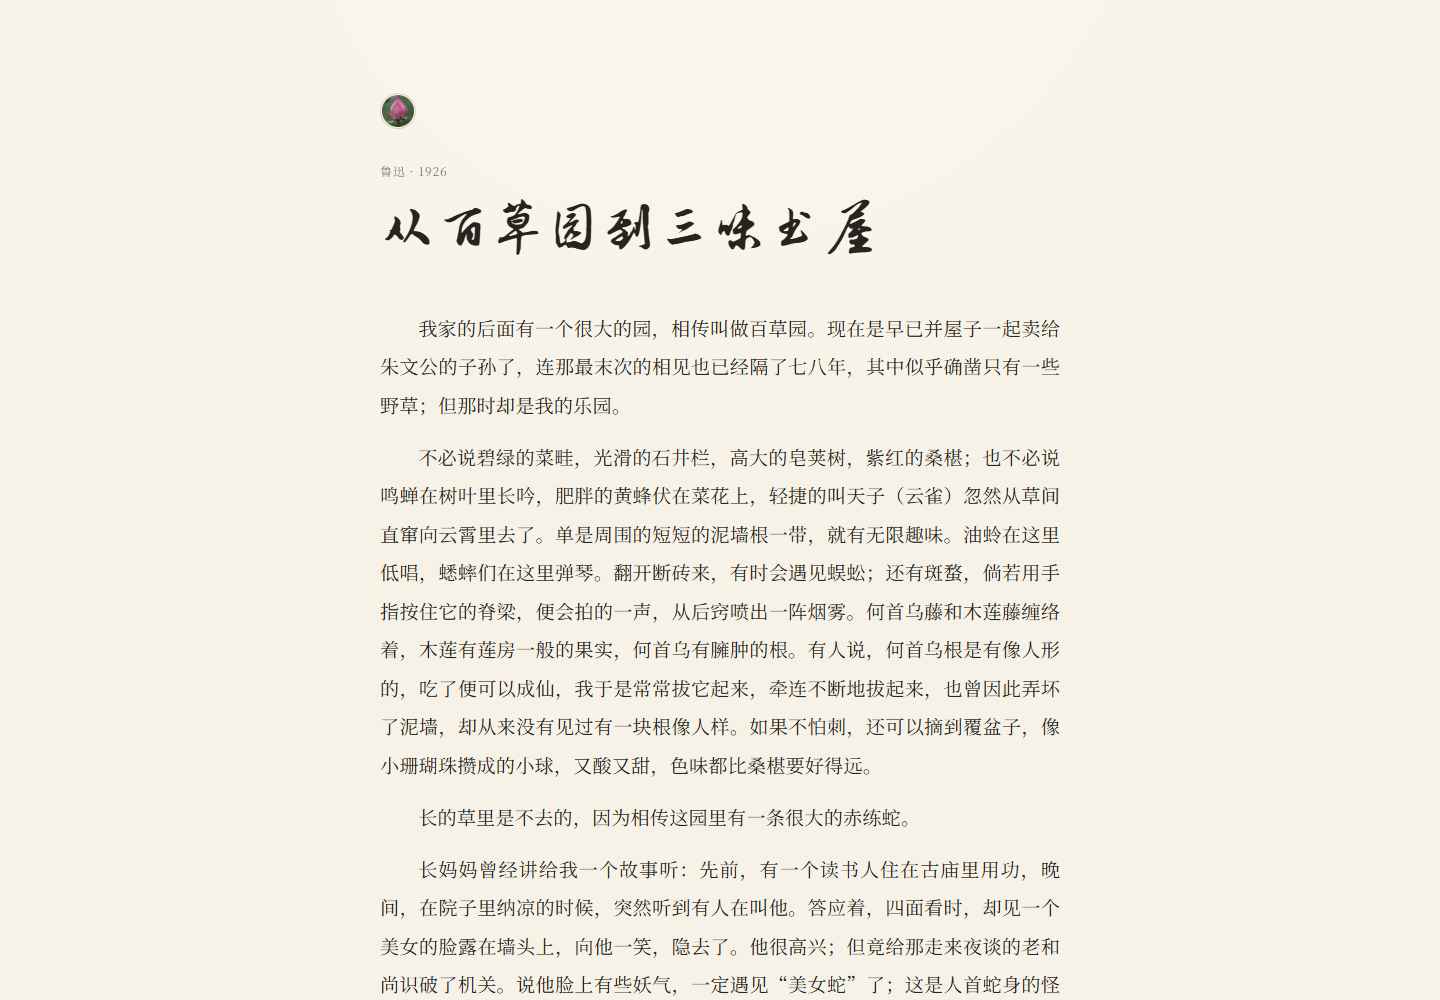
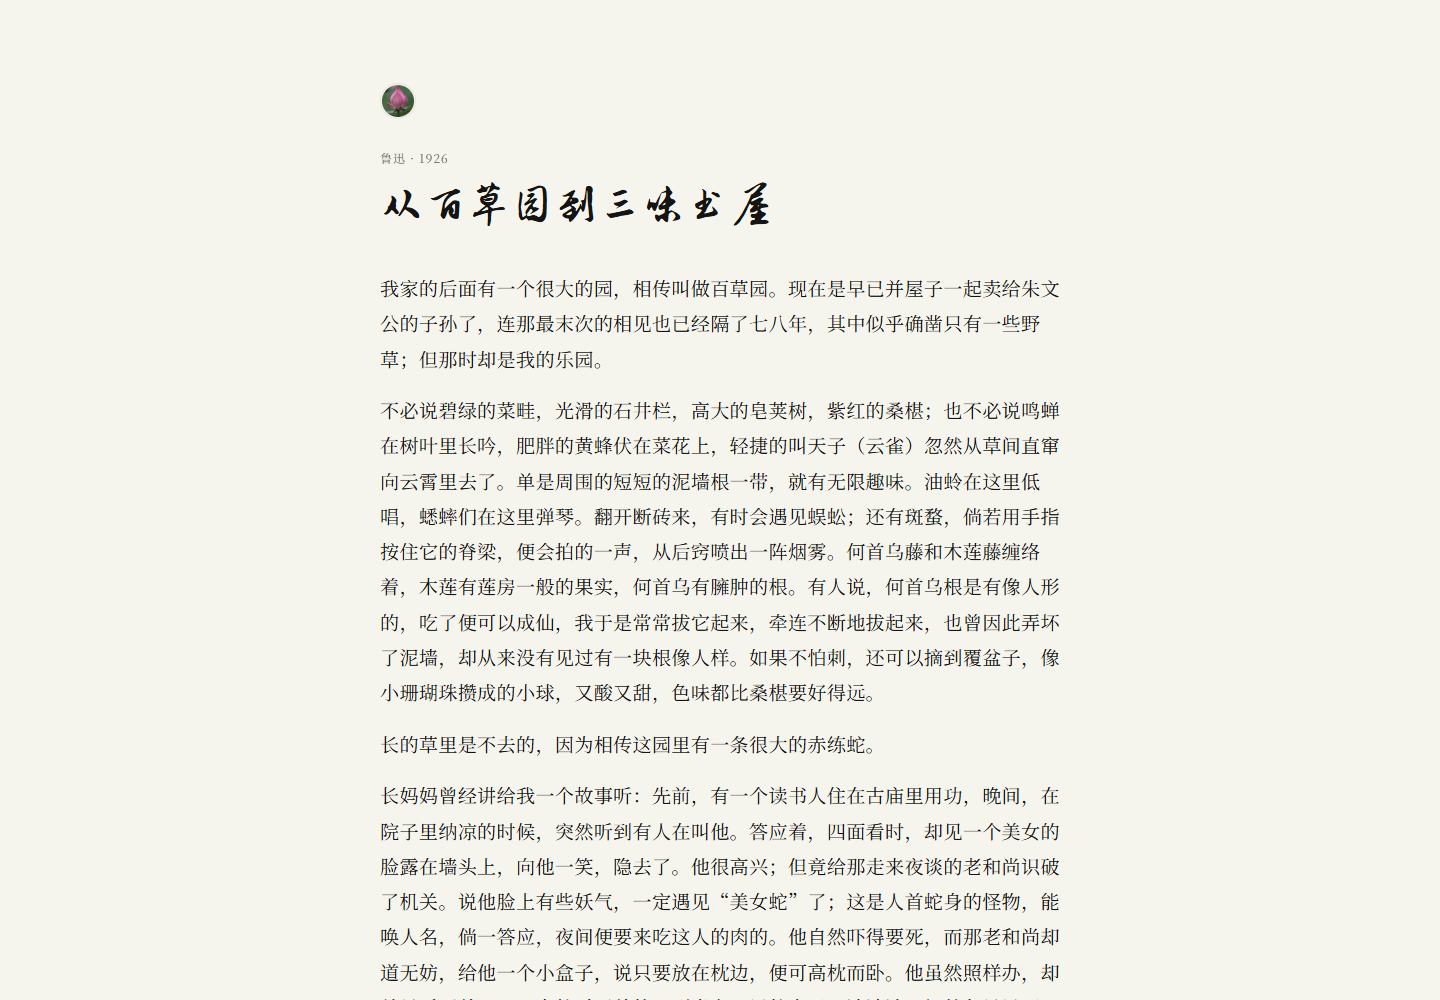
docs: update article typography preview

Changed region(s): [[0.25, 0.279, 0.75, 1.0], [0.25, 0.155, 0.625, 0.248], [0.25, 0.093, 0.3125, 0.124]]

diff --git a/docs/plans/2026-10-19-blog-redesign-design.md b/docs/plans/2026-10-19-blog-redesign-design.md
@@ -65,14 +65,21 @@ python new_post.py "文章的标题" --serve
 
 ## Layout
 
-- **Paper:** warm ivory `#f7f2e7`, ink `#26241f`, muted warm grey, cinnabar accent
-  `#a23b2c`.
+- **Paper:** Kami-style warm parchment `#f5f4ed`, ink `#141413`, four warm neutral
+  text levels, cinnabar accent `#9a3b2d` used only for the seal, links, and hover.
 - **Home:** small lotus mark, brush tagline with a tiny `墨` seal, then all post titles as
   one uniform inline tag cloud. Newest first. No cards, dates, or counts.
 - **Article:** small lotus link home, author/year, brush title, prose, one return link.
-- **Width:** 680px; 19px body text with 2.0 line-height and 2em first-line indent on
-  desktop, 18px on phones. No fixed header or sidebar.
-- **Chrome:** no gradients except a barely visible top paper light, no shadows, no motion.
+- **Article measure:** 680px, about 35 Chinese characters per line. Body text is 19px with
+  a 1.85 line-height on desktop and 18px with 1.82 on phones.
+- **Rhythm (borrowed from Kami):** body is left-aligned, never justified, with no
+  first-line indent. Paragraphs are separated by 0.85em of space. Headings use a
+  clear 2.5em / 0.85em before/after rhythm, so a heading belongs to the text below it.
+- **Hierarchy:** title 48px, byline 12px, body 19px, footer 11px. Headings are
+  Noto Serif SC 500; body is 400; no synthetic bold. The brush face is reserved for
+  the site statement and article title.
+- **Chrome:** flat paper, no gradient, no shadows, no decorative rules or side bars,
+  no motion. Only one hairline (footer) and one cinnabar seal.
 - **Footer:** copyright, email, GitHub, one hairline rule.
 - **404:** the same quiet paper page.
 
